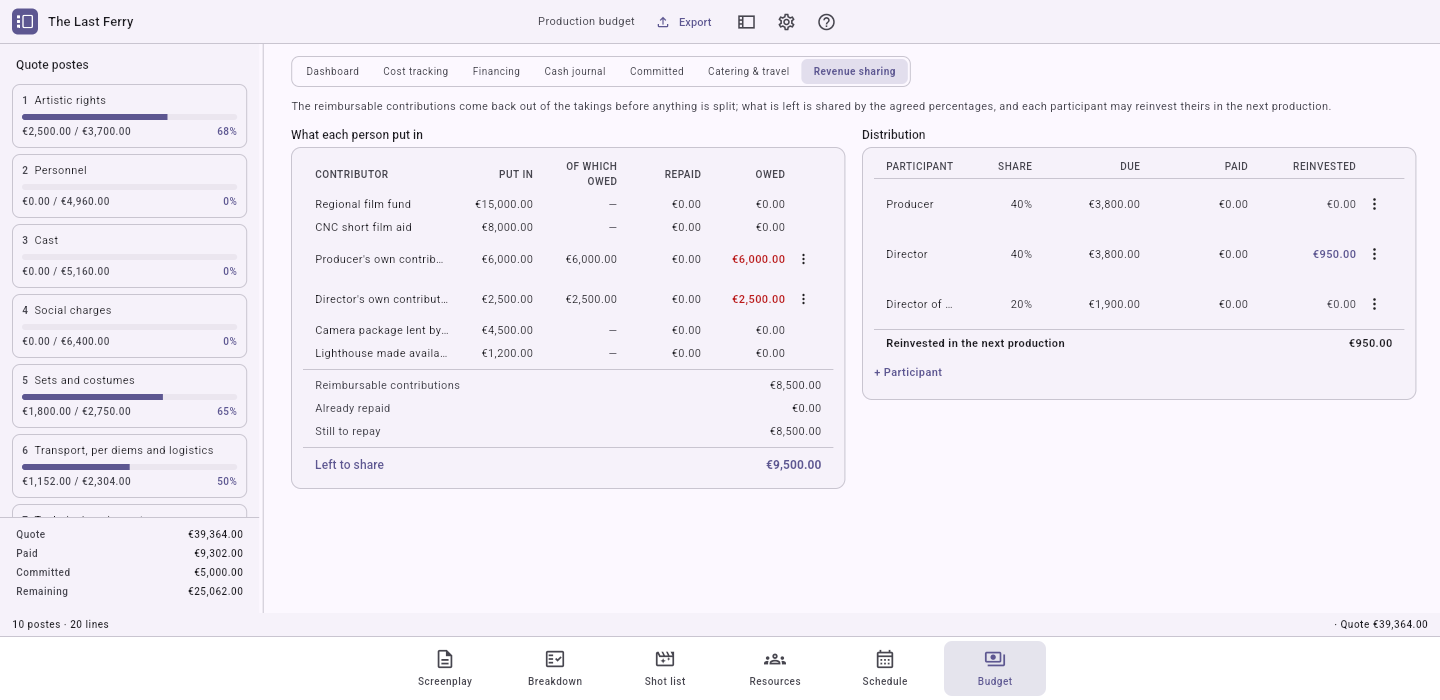
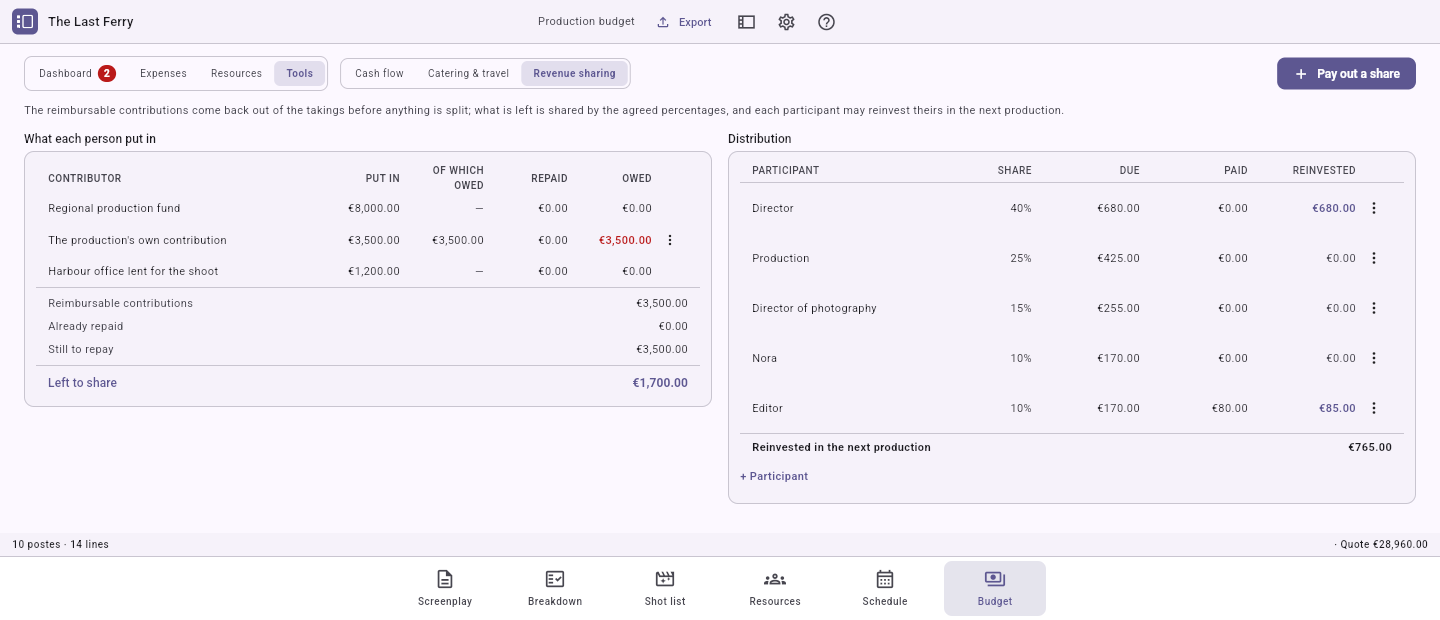
docs: retake the budget screenshots on four pages
The four in the README showed the retired shape: a left dock holding
the quote, a capture band across the top of the cost report, and chips
naming pages the header no longer draws. Retake them, rename two after
the chips they now show, and add the cash flow page, which is where the
account's own statement and everything still owed against it now read.

The demonstration project had nothing committed at all, so none of that
was photographable and the dashboard drew no alert. Seed three
commitments - one settled by an entry, two still owed - and a premium
that lands a poste past its own quote, which is what the standing alerts
exist to say. The quote gains the lines that leave no poste empty.

diff --git a/test/seed_demo_project.dart b/test/seed_demo_project.dart
@@ -39,6 +39,7 @@ import 'package:open_cine_prod_tools/models/database/ocpt_project_database.dart'
 import 'package:open_cine_prod_tools/models/ocpt_budget_poste_seed.dart';
 import 'package:open_cine_prod_tools/types/ocpt_breakdown_scene_status.dart';
 import 'package:open_cine_prod_tools/types/ocpt_breakdown_target_kind.dart';
+import 'package:open_cine_prod_tools/types/ocpt_budget_commitment_status.dart';
 import 'package:open_cine_prod_tools/types/ocpt_budget_resource_group_kind.dart';
 import 'package:open_cine_prod_tools/types/ocpt_budget_resource_status.dart';
 import 'package:open_cine_prod_tools/types/ocpt_budget_revenue_status.dart';
@@ -1012,7 +1013,7 @@ void main() {
 
     String posteIdOf(String code) => postes.firstWhere((poste) => poste.code == code).id;
 
-    Future<void> quoteLine(
+    Future<String> quoteLine(
       String code,
       String label,
       int quantityMilli,
@@ -1033,15 +1034,32 @@ void main() {
         unit: Value(unit),
         vatRateBasisPoints: Value(vatRateBasisPoints),
       );
+
+      return lineId;
     }
 
+    await quoteLine("1", "Screenplay rights", 1000, "package", 120000, vatRateBasisPoints: 0);
     await quoteLine("2", "Director of photography", 12000, "day", 25000, vatRateBasisPoints: 0);
     await quoteLine("2", "Sound engineer", 12000, "day", 22000, vatRateBasisPoints: 0);
     await quoteLine("3", "Nora", 12000, "day", 30000, vatRateBasisPoints: 0);
     await quoteLine("3", "Martin", 8000, "day", 30000, vatRateBasisPoints: 0);
+    await quoteLine("4", "Employer contributions", 1000, "package", 240000, vatRateBasisPoints: 0);
+    final costumesLineId = await quoteLine(
+      "5",
+      "Period costumes",
+      1000,
+      "package",
+      180000,
+      vatRateBasisPoints: 2000,
+    );
+    await quoteLine("5", "Set dressing — the lighthouse", 1000, "package", 95000,
+        vatRateBasisPoints: 2000);
     await quoteLine("6", "Boat charter", 3000, "day", 48000, vatRateBasisPoints: 2000);
     await quoteLine("7", "Camera package", 12000, "day", 39000, vatRateBasisPoints: 2000);
     await quoteLine("8", "Colour grading", 4000, "day", 55000, vatRateBasisPoints: 2000);
+    await quoteLine("8", "Sound mix", 3000, "day", 40000, vatRateBasisPoints: 2000);
+    await quoteLine("9", "Production insurance", 1000, "package", 85000, vatRateBasisPoints: 2000);
+    await quoteLine("10", "Office and telephone", 1000, "package", 60000, vatRateBasisPoints: 2000);
 
     // The financing plan. One contribution is reimbursable out of the takings, which is what the
     // sharing view puts before any split at all.
@@ -1085,6 +1103,37 @@ void main() {
       OcptBudgetResourceStatus.agreed,
     );
 
+    // What is ordered but not yet paid. One is settled by the entry below it, so the expenses tree
+    // reads a whole line → commitment → payment chain; the other two are still owed, which is what
+    // the cash-flow page's own upcoming section and its projection read.
+    final costumesCommitmentId = (await budgetJournalService.createCommitment(
+      database: database,
+      posteId: posteIdOf("5"),
+      lineId: costumesLineId,
+      label: "Maison Couronne — period costumes",
+      dueDate: DateTime.utc(2026, 9, 20),
+      amountCents: 180000,
+      vatRateBasisPoints: 2000,
+      status: OcptBudgetCommitmentStatus.invoiceReceived,
+    ))!;
+    await budgetJournalService.createCommitment(
+      database: database,
+      posteId: posteIdOf("7"),
+      label: "Camera package, second week",
+      dueDate: DateTime.utc(2026, 9, 30),
+      amountCents: 117000,
+      vatRateBasisPoints: 2000,
+    );
+    await budgetJournalService.createCommitment(
+      database: database,
+      posteId: posteIdOf("8"),
+      label: "Studio Lumière — colour grading",
+      dueDate: DateTime.utc(2026, 11, 16),
+      amountCents: 220000,
+      vatRateBasisPoints: 2000,
+      status: OcptBudgetCommitmentStatus.contractSigned,
+    );
+
     // The cash journal, including the credit that makes the reimbursable contribution received.
     await budgetJournalService.createEntry(
       database: database,
@@ -1107,6 +1156,31 @@ void main() {
       label: "Boat charter",
       posteId: posteIdOf("6"),
       debitCents: 144000,
+      vatRateBasisPoints: 2000,
+    );
+    final costumesEntryId = (await budgetJournalService.createEntry(
+      database: database,
+      date: DateTime.utc(2026, 9, 20),
+      label: "Maison Couronne — period costumes",
+      posteId: posteIdOf("5"),
+      debitCents: 180000,
+      vatRateBasisPoints: 2000,
+    ))!;
+    await budgetJournalService.updateCommitment(
+      database: database,
+      commitmentId: costumesCommitmentId,
+      settledEntryId: Value(costumesEntryId),
+    );
+
+    // The premium came in above the line quoted for it, so poste 9 reads over its own quote — the
+    // one standing alert the demonstration project raises, and the reason the dashboard has an
+    // alerts card to draw at all.
+    await budgetJournalService.createEntry(
+      database: database,
+      date: DateTime.utc(2026, 8, 28),
+      label: "Production insurance — annual premium",
+      posteId: posteIdOf("9"),
+      debitCents: 102000,
       vatRateBasisPoints: 2000,
     );
 

diff --git a/README.md b/README.md
@@ -102,32 +102,41 @@ somebody convoked on a day their own availability says they are away.
 
 ![The presence grid, eleven people against three shooting days, one cell flagged in red](docs/screenshots/schedule-presence.png)
 
-The budget mode opens on the whole production at a glance: what has been quoted, what has come in,
-what has left the account, what the bank still holds, then the film's needs against what pays for
-them and the postes the quote is made of. Anything the figures raise as a warning lands here too,
-and the chip carries the count of them from every other page. The dock on the left is the quote
-itself, poste by poste, and it stays there whichever page is on screen.
+The budget mode opens on the whole production at a glance: four figures - what has been quoted,
+what pays for it, what has left the account and what the bank still holds - then the film's needs
+against its resources. Under them is what needs a decision: a poste already past its own quote, a
+balance the commitments will take below zero. An alert is not a notification to dismiss, it is a
+fact that stays true until the figures change, so each one is a way into the data it is about, and
+the chip carries the count of them from every other page.
 
-![The budget dashboard, its tiles over the needs-against-resources band and the poste bars](docs/screenshots/budget-dashboard.png)
+![The budget dashboard, four tiles over the needs-against-resources band and two standing alerts](docs/screenshots/budget-dashboard.png)
 
-What the film costs, poste by poste: one row per poste of the CNC nomenclature, opening on its
-own quote lines, and a line opening in turn on the commitment it became and on the entry that
-settled it. The band on top is the whole daily gesture - a direction, an amount, a name, a date -
-after which the app proposes what the movement settles, so the same figure is never typed twice.
+What the film costs, poste by poste: one row per poste of the CNC nomenclature, opening on its own
+quote lines, and a line opening in turn on the commitment it became and on the entry that settled
+it. Spending that names no poste is not hidden - it lands in a row of its own, and counts in the
+total. `Enter an expense` opens a two-step form: first what you are doing, in the words a
+production actually uses, then the fields that answer belongs to.
 
-![The cost tracking view, a poste opened down to its commitment and its settling entry](docs/screenshots/budget-cost-tracking.png)
+![The expenses view, a poste opened down to its commitment and its settling entry](docs/screenshots/budget-expenses.png)
 
 What pays for it, read the same way: subsidies, contributions and takings, each with the paperwork
 it is held on - which never means the money has arrived - and, at the foot, whether all of it
 covers the film. A contribution in kind is valued and never collected, so both of its cash columns
 read an em dash rather than a zero.
 
-![The financing view, three families with their paperwork and the coverage band](docs/screenshots/budget-financing.png)
+![The resources view, three families with their paperwork and the coverage band](docs/screenshots/budget-resources.png)
+
+The tools drawer holds what re-reads those two rather than adding to them. The cash flow page is
+the account itself: every movement in date order, the balance the bank shows on the last of them,
+and, underneath, what is committed and still owed - all postes together, by due date - with the
+balance all of it leaves once it has fallen due.
+
+![The cash flow page, the statement closing on its balance above the commitments still to fall due](docs/screenshots/budget-cash-flow.png)
 
 And what the film earns, once it earns something: the reimbursable contributions come off the top
 in full, and only what is left is divided by the agreed shares.
 
-![The revenue sharing view, what each person put in beside the distribution](docs/screenshots/budget-sharing.png)
+![The revenue sharing page, what each person put in beside the distribution](docs/screenshots/budget-sharing.png)
 
 ## Features
 
@@ -193,20 +202,23 @@ What the app does today:
   than the production says it owes, a filming permit that does not cover the date. Exports the seven
   documents a shoot runs on: the general call sheet and one sheet per recipient, the shooting plan
   as a PDF and as a workbook, the Day Out of Days, the one-line schedule and the day's sides.
-- A budget mode: what the film costs, what pays for it, and how what it earns is shared. The quote
-  against the CNC nomenclature, read as the cost report a production actually works from - quote,
-  committed, paid, remaining, final cost and variance, poste by poste - with the cash journal it is
-  measured against read as the same document in date order rather than as a ledger of its own. A
-  poste opens on its quote lines, and a line on the commitment it became and the entries that
-  settled it. Recording what arrives is one line at the top of the page: a direction, an amount, a
-  name, a date, after which the app ranks what the movement could be settling and one click writes
-  it - so a sum that already exists is never typed a second time. The financing plan says what
-  covers the film and keeps the paperwork apart from the money, because a subsidy on paper is not a
-  subsidy in the account; a contribution in kind is valued without ever pretending cash will move
-  for it. The catering each shooting day costs is read off the schedule rather than typed again,
-  the travel defrayals are typed row by row and provisioned into the quote, and the revenue sharing
-  takes the reimbursable contributions off the top before dividing what is left. Exports the quote,
-  the financing plan, the cash journal as a workbook and the financial report.
+- A budget mode, on four pages: an overview, what the film costs, what pays for it, and a drawer of
+  tools that re-read those rather than adding to them. The quote against the CNC nomenclature, read
+  as the cost report a production actually works from - quote, committed, paid, remaining, final
+  cost and variance, poste by poste - and a poste opens on its quote lines, a line on the
+  commitment it became and the entry that settled it. Recording a movement is two questions: what
+  you are doing, in the words a production actually uses, and then only the fields that answer
+  belongs to, direction included. Once the amount and the date are typed the app ranks what the
+  movement could be settling and one click writes it, so a sum that already exists is never typed a
+  second time. The financing plan says what covers the film and keeps the paperwork apart from the
+  money, because a subsidy on paper is not a subsidy in the account; a contribution in kind is
+  valued without ever pretending cash will move for it. In the drawer, the cash flow page reads the
+  account itself - every movement in date order, the balance it closes on, and what is committed
+  and still owed under it - the catering each shooting day costs is read off the schedule rather
+  than typed again beside the travel defrayals, typed row by row and provisioned into the quote,
+  and the revenue sharing takes the reimbursable contributions off the top before dividing what is
+  left. Exports the quote, the financing plan, the cash journal as a workbook and the financial
+  report.
 - Project versions: named, permanent checkpoints of the whole project, previewed read-only before
   you commit to anything and restored as an edit rather than a reset - the state a restore replaces
   is itself kept as a version, so going back is never a one-way door.
